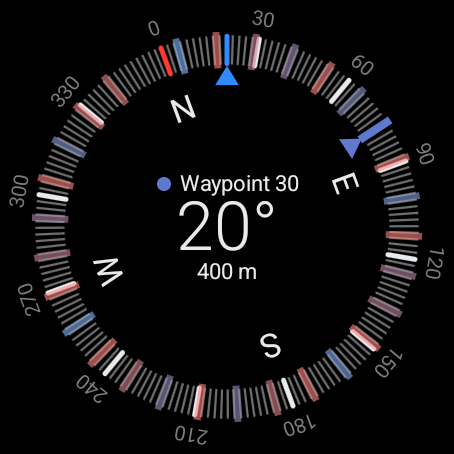
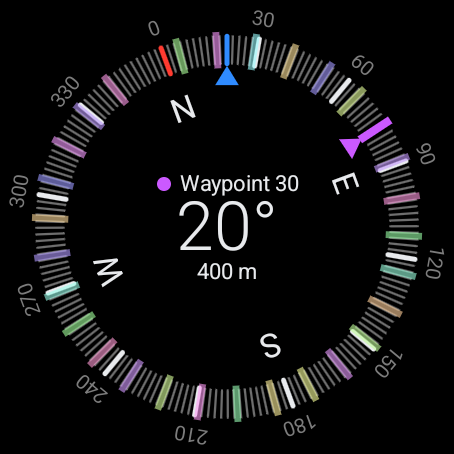
Pictures: compass-many, waypoints-many, waypoints-many-end and settings-end retaken on both round sizes and looked at (the places given since v3 Task 5; Waypoint 1 green, Waypoint 2 magenta); launcher-after-large retaken (Task 9's showed the watch face); screenshot-matrix.sh's row search takes up to
Claude-Session: https://claude.ai/code/session_01KAiVD4eVXLN9qRyssXtjz6

diff --git a/docs/screenshots/README.md b/docs/screenshots/README.md
@@ -17,7 +17,7 @@ Every picture here is a capture from an emulator, taken on 2026-10-13 from the d
 | Facing the focused target: the heavy line | `compass-facing` | `compass`: heading 300, the bearing of the focused target |
 | Magnetic north and meters, facing | `compass-targets-mag-metric` | `compass`: `Feet and miles` and `True north` switched off in settings |
 | Eight waypoints 45 apart on the color ring | `compass-ring8` | `compass`: `seed-targets.sh 0:0:900 45:45:900 ... 315:315:900`, heading 20 |
-| Thirty targets | `compass-many` | `compass`: `seed-targets.sh many` |
+| Thirty targets (retaken in v3 Task 10: the places new waypoints are given since v3 Task 5, none within 25 degrees of north's red or the pointer's blue) | `compass-many` | `compass`: `seed-targets.sh many` |
 | `Arrived at target` | `compass-arrived` | `compass`: `seed-targets.sh 0:0:4` (4 m away) |
 | `No target` | `compass-no-target` | `compass`: three waypoints, the waypoints header tapped to clear all |
 | A distance marked `(old)` | `compass-stale` | `compass`: `settings put secure location_mode 0`, 25 s |
@@ -92,8 +92,8 @@ The `coords` pictures were taken again on 2026-10-15 (v3 Task 8), with the latit
 |-|-|-|
 | No waypoints | `waypoints-empty` | `waypoints`: after `pm clear` |
 | A few, one not a target, long names | `waypoints-few` | `waypoints`: three waypoints renamed, one row tapped |
-| Thirty, top of the list | `waypoints-many` | `waypoints`: `seed-targets.sh many` |
-| Thirty, end of the list | `waypoints-many-end` | `waypoints`: twelve swipes up |
+| Thirty, top of the list (retaken in v3 Task 10, as `compass-many`) | `waypoints-many` | `waypoints`: `seed-targets.sh many` |
+| Thirty, end of the list (retaken in v3 Task 10: `Waypoint 1` green, `Waypoint 2` magenta) | `waypoints-many-end` | `waypoints`: twelve swipes up |
 | Old distances | `waypoints-old` | `waypoints`: location off, 25 s |
 | A long name sliding (3 frames, 2.2 s apart) | `name-sliding-list` | `moving` |
 
@@ -112,7 +112,7 @@ The `coords` pictures were taken again on 2026-10-15 (v3 Task 8), with the latit
 |-|-|-|
 | Top of the list | `settings-top` | `settings`: after `pm clear` (the defaults in the United States locale) |
 | Middle | `settings-middle` | `settings`: scrolled to `Blind navigation` |
-| End | `settings-end` | `settings`: scrolled to `Calibrate` |
+| End (retaken in v3 Task 10; on the small round the script's search for the row now takes up to 24 steps) | `settings-end` | `settings`: scrolled to `Calibrate` |
 | `Breadcrumb trail` and `Show coordinates` on | `settings-trail-coords-on` | `settings`: `Show coordinates` tapped (location already granted; the trail is on by default), scrolled to `Breadcrumb trail` |
 | Every switch off (3 frames: top, middle, end) | `settings-all-off` | `settings`: each row tapped, and `Turn off` answered to the backup's question |
 | Calibration: seven segments of the ring lit, `Covered 29%`, and the `Check` row at the bottom (2026-10-15, v3 Tasks 6 and 7; retaken in Task 7 fix round 1 with the ring at 0.21 of the radius) | `calibrate` | `calibration`: `Calibrate` tapped at heading 40, then the fields `0:20:-45 -20:0:-45 0:-20:-45 20:0:-45 45:20:0 0:20:45` set through the console |
@@ -194,7 +194,7 @@ Taken on 2026-10-16 (v3 Task 9) from the debug build, by hand: Home pressed twic
 | State | File | How it was produced |
 |-|-|-|
 | The launcher, the icon beside the system's, before: the mark on a black disc | `launcher-before-large`, `launcher-before-small` | API 35 |
-| The launcher, after: the disc `#153D70` filling the mask, the ring at the edge of the 66 dp safe zone | `launcher-after-large`, `launcher-after-small` | API 35 |
+| The launcher, after: the disc `#153D70` filling the mask, the ring at the edge of the 66 dp safe zone | `launcher-after-large`, `launcher-after-small` | API 35 (`launcher-after-large` retaken in v3 Task 10 with commit 34fe5b5's build: the picture of Task 9 under that name showed the watch face, not the launcher) |
 | The start screen, after: the icon with its disc on black | `start-icon-large`, `start-icon-small` | API 35, a frame of the recording about 2 s after `am start` |
 | The start screen, before: the mark alone on black | `start-icon-before-small` | API 35, the same, commit 87c6664's build |
 
